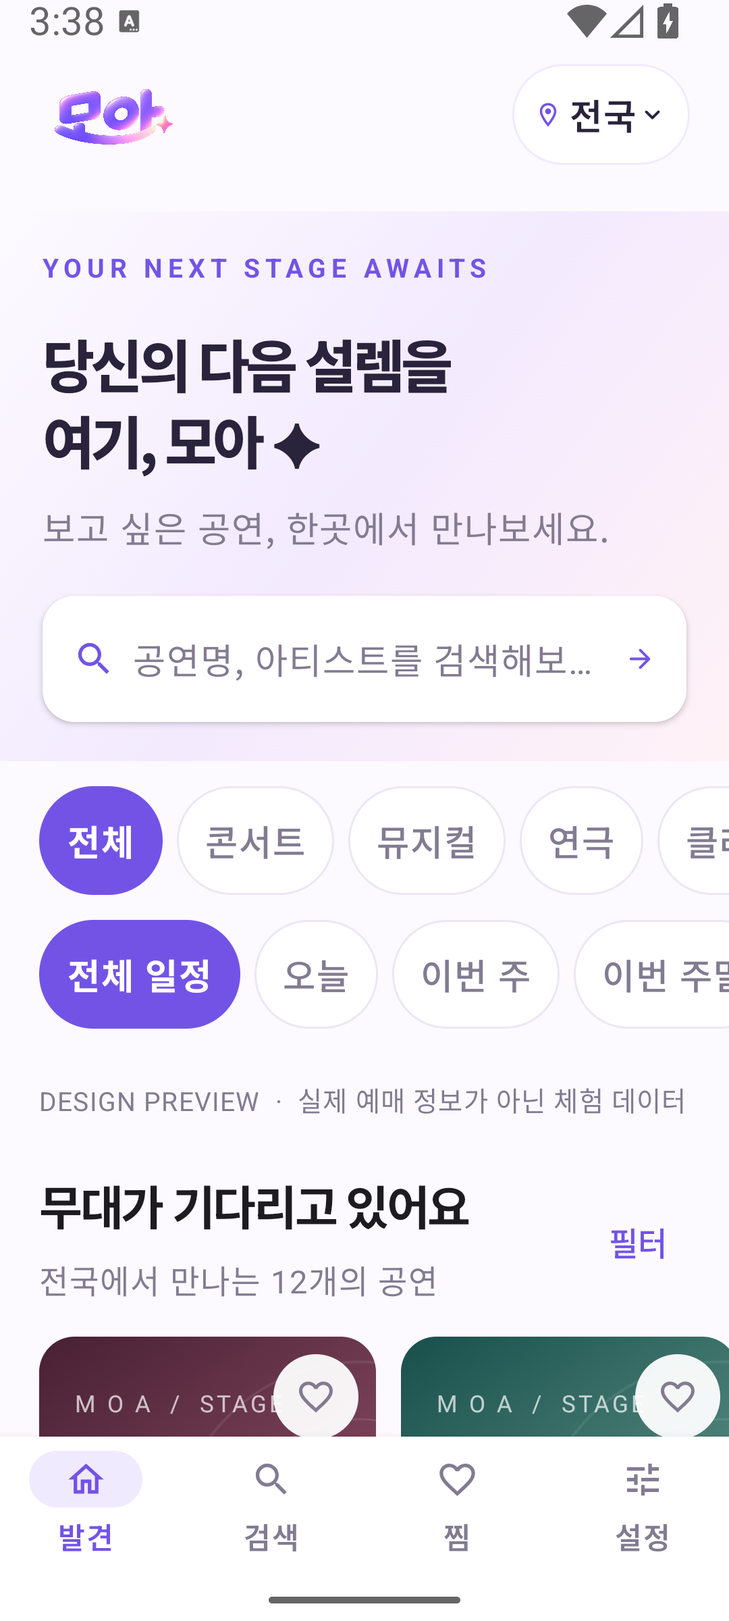
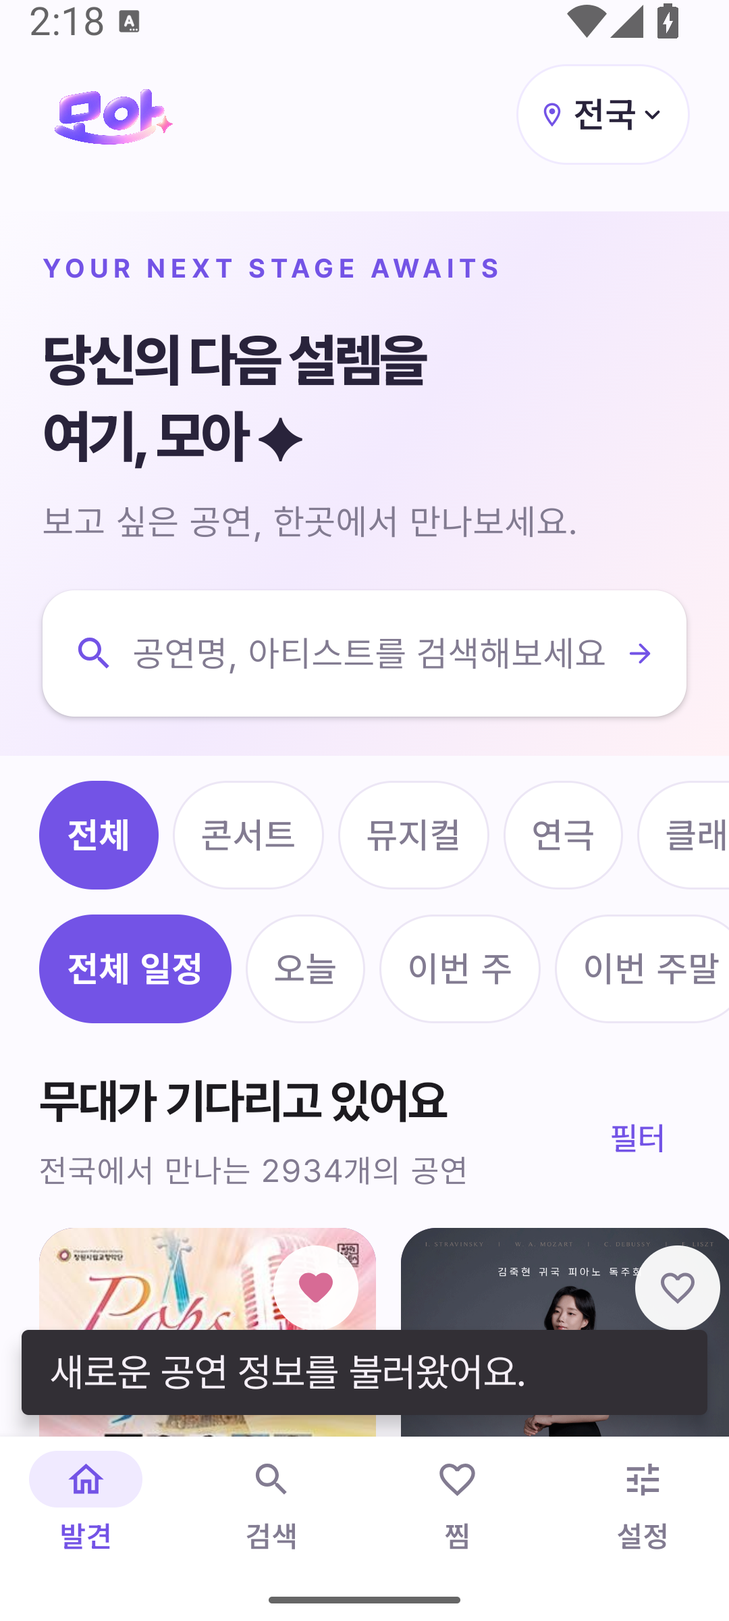
Finalize live Moa app, runtime verification and operating guide

diff --git a/app/src/main/java/kr/moa/app/MainActivity.kt b/app/src/main/java/kr/moa/app/MainActivity.kt
@@ -33,6 +33,7 @@ import androidx.compose.ui.semantics.stateDescription
 import androidx.compose.ui.semantics.selected
 import androidx.compose.ui.unit.*
 import androidx.compose.ui.platform.LocalUriHandler
+import androidx.compose.ui.platform.LocalSoftwareKeyboardController
 import androidx.lifecycle.compose.collectAsStateWithLifecycle
 import androidx.lifecycle.viewmodel.compose.viewModel
 import androidx.navigation.compose.*
@@ -74,7 +75,7 @@ class MainActivity : ComponentActivity() {
     val snack = remember { SnackbarHostState() }
     LaunchedEffect(message) { message?.let { snack.showSnackbar(it); vm.message.value = null } }
     val open: (Performance) -> Unit = { nav.navigate("detail/${it.id}") }
-    Scaffold(containerColor = Canvas, snackbarHost = { SnackbarHost(snack) }, bottomBar = {
+    Scaffold(modifier = Modifier.imePadding(), containerColor = Canvas, snackbarHost = { SnackbarHost(snack) }, bottomBar = {
         if (!route.startsWith("detail")) Surface(color = Color.White, shadowElevation = 8.dp) {
             NavigationBar(containerColor = Color.White, tonalElevation = 0.dp) {
                 listOf(Triple("home", "발견", Icons.Outlined.Home), Triple("search", "검색", Icons.Outlined.Search), Triple("favorites", "찜", Icons.Outlined.FavoriteBorder), Triple("settings", "설정", Icons.Outlined.Tune)).forEach { (r, label, icon) ->
@@ -88,7 +89,7 @@ class MainActivity : ComponentActivity() {
             composable("search") { SearchScreen(catalog, filters, query, prefs.history, favorites, { vm.query.value = it }, vm::search, vm::clearHistory, { filterOpen = true }, { vm.defaults(it) }, vm::favorite, open) }
             composable("favorites") { FavoritesScreen(favorites, vm::favorite, open) }
             composable("settings") { SettingsScreen(prefs, catalog, filters, busy, { filterOpen = true }, vm::endpoint, vm::refresh) }
-            composable("detail/{id}") { back -> val id = back.arguments?.getString("id"); val p = catalog?.performances?.find { it.id == id } ?: favorites.find { it.id == id }; if (p != null) DetailScreen(p, favorites.any { it.id == p.id }, catalog?.sample == true, { nav.popBackStack() }, { vm.favorite(p) }) else EmptyState("공연 정보를 찾지 못했어요", "목록으로 돌아가 다시 선택해주세요.") }
+            composable("detail/{id}") { back -> val id = back.arguments?.getString("id"); val p = catalog?.performances?.find { it.id == id } ?: favorites.find { it.id == id }; if (p != null) DetailScreen(p, favorites.any { it.id == p.id }, catalog?.sample == true || p.id.startsWith("DEMO"), { nav.popBackStack() }, { vm.favorite(p) }) else EmptyState("공연 정보를 찾지 못했어요", "목록으로 돌아가 다시 선택해주세요.") }
         }
     }
     if (filterOpen) FilterSheet(filters, { filterOpen = false }) { vm.defaults(it); filterOpen = false }
@@ -146,7 +147,7 @@ class MainActivity : ComponentActivity() {
     Column(Modifier.width(190.dp).clickable(onClick = open)) {
         Box(Modifier.fillMaxWidth().aspectRatio(0.72f).clip(RoundedCornerShape(20.dp))) { PosterArt(p, Modifier.fillMaxSize()); Heart(saved, favorite, Modifier.align(Alignment.TopEnd).padding(10.dp)); Surface(color = Pink, shape = RoundedCornerShape(50), modifier = Modifier.align(Alignment.BottomStart).padding(12.dp)) { Text(p.genre, color = Ink, fontSize = 10.sp, fontWeight = FontWeight.Bold, modifier = Modifier.padding(horizontal = 10.dp, vertical = 5.dp)) } }
         Text(p.title, fontSize = 15.sp, fontWeight = FontWeight.Bold, maxLines = 2, overflow = TextOverflow.Ellipsis, lineHeight = 22.sp, modifier = Modifier.padding(top = 12.dp).heightIn(min = 44.dp))
-        Text(dateLabel(p), fontSize = 11.sp, color = Muted, modifier = Modifier.padding(top = 6.dp)); Text("${p.venue.ifBlank { "공연장 정보 없음" }} · ${p.region.ifBlank { "지역 정보 없음" }}", fontSize = 11.sp, color = Muted, maxLines = 1, overflow = TextOverflow.Ellipsis, modifier = Modifier.padding(top = 4.dp))
+        Text(dateLabel(p), fontSize = 11.sp, color = Muted, modifier = Modifier.padding(top = 6.dp)); Text("${venueLabel(p.venue)} · ${p.region.ifBlank { "지역 정보 없음" }}", fontSize = 11.sp, color = Muted, maxLines = 1, overflow = TextOverflow.Ellipsis, modifier = Modifier.padding(top = 4.dp))
     }
 }
 @Composable fun Heart(saved: Boolean, onClick: () -> Unit, modifier: Modifier = Modifier) { Surface(shape = RoundedCornerShape(50), color = Color.White.copy(alpha = .94f), modifier = modifier) { IconButton(onClick = onClick, modifier = Modifier.size(48.dp)) { Icon(if (saved) Icons.Rounded.Favorite else Icons.Outlined.FavoriteBorder, if (saved) "찜 해제" else "찜하기", tint = if (saved) Color(0xFFD76B95) else Muted, modifier = Modifier.size(23.dp)) } } }
@@ -185,9 +186,9 @@ class MainActivity : ComponentActivity() {
         Row(Modifier.padding(12.dp), verticalAlignment = Alignment.CenterVertically) {
             PosterArt(p, Modifier.width(82.dp).height(118.dp).clip(RoundedCornerShape(12.dp)))
             Column(Modifier.weight(1f).padding(start = 12.dp)) {
-                Row(verticalAlignment = Alignment.CenterVertically) { Text("${p.genre} · ${p.region}", color = Purple, fontSize = 10.sp, fontWeight = FontWeight.Bold, modifier = Modifier.weight(1f)); IconButton(onClick = favorite, modifier = Modifier.size(48.dp)) { Icon(if (saved) Icons.Rounded.Favorite else Icons.Outlined.FavoriteBorder, if (saved) "찜 해제" else "찜하기", tint = if (saved) Color(0xFFD76B95) else Muted, modifier = Modifier.size(21.dp)) } }
+                Row(verticalAlignment = Alignment.CenterVertically) { Text("${if (p.id.startsWith("DEMO")) "체험용 · " else ""}${p.genre} · ${p.region}", color = Purple, fontSize = 10.sp, fontWeight = FontWeight.Bold, modifier = Modifier.weight(1f)); IconButton(onClick = favorite, modifier = Modifier.size(48.dp)) { Icon(if (saved) Icons.Rounded.Favorite else Icons.Outlined.FavoriteBorder, if (saved) "찜 해제" else "찜하기", tint = if (saved) Color(0xFFD76B95) else Muted, modifier = Modifier.size(21.dp)) } }
                 Text(p.title, fontSize = 15.sp, fontWeight = FontWeight.Bold, lineHeight = 21.sp, maxLines = 2, overflow = TextOverflow.Ellipsis)
-                Text(dateLabel(p), fontSize = 11.sp, color = Muted, modifier = Modifier.padding(top = 8.dp)); Text(p.venue.ifBlank { "공연장 정보 없음" }, fontSize = 11.sp, color = Muted, maxLines = 1, overflow = TextOverflow.Ellipsis, modifier = Modifier.padding(top = 4.dp))
+                Text(dateLabel(p), fontSize = 11.sp, color = Muted, modifier = Modifier.padding(top = 8.dp)); Text(venueLabel(p.venue), fontSize = 11.sp, color = Muted, maxLines = 1, overflow = TextOverflow.Ellipsis, modifier = Modifier.padding(top = 4.dp))
             }
         }
     }
@@ -196,16 +197,17 @@ class MainActivity : ComponentActivity() {
 @Composable fun EmptyState(title: String, body: String) { Column(Modifier.fillMaxWidth().padding(horizontal = 24.dp, vertical = 44.dp), horizontalAlignment = Alignment.CenterHorizontally) { Surface(color = Lavender, shape = RoundedCornerShape(24.dp)) { Icon(Icons.Outlined.TheaterComedy, null, tint = Purple, modifier = Modifier.padding(20.dp).size(32.dp)) }; Text(title, fontSize = 18.sp, fontWeight = FontWeight.Bold, modifier = Modifier.padding(top = 20.dp)); Text(body, fontSize = 13.sp, color = Muted, modifier = Modifier.padding(top = 8.dp), textAlign = androidx.compose.ui.text.style.TextAlign.Center) } }
 
 @Composable fun SearchScreen(catalog: Catalog?, filters: Filters, query: String, history: List<String>, favorites: List<Performance>, setQuery: (String) -> Unit, search: (String) -> Unit, clearHistory: (String?) -> Unit, onFilter: () -> Unit, change: (Filters) -> Unit, favorite: (Performance) -> Unit, open: (Performance) -> Unit) {
+    val keyboard = LocalSoftwareKeyboardController.current
     val list = filterPerformances(catalog?.performances.orEmpty(), query, filters)
     LazyColumn(contentPadding = PaddingValues(bottom = 24.dp), verticalArrangement = Arrangement.spacedBy(16.dp)) {
         item { BrandHeader(filters.region, onFilter) }
-        item { Column(Modifier.padding(horizontal = 22.dp)) { Text("어떤 무대를 찾고 있나요?", fontWeight = FontWeight.Bold, fontSize = 25.sp, letterSpacing = (-.8).sp); Spacer(Modifier.height(16.dp)); Row(verticalAlignment = Alignment.CenterVertically, horizontalArrangement = Arrangement.spacedBy(8.dp)) { OutlinedTextField(value = query, onValueChange = setQuery, singleLine = true, placeholder = { Text("공연명이나 아티스트", fontSize = 13.sp) }, leadingIcon = { Icon(Icons.Outlined.Search, null, tint = Purple) }, trailingIcon = { if (query.isNotEmpty()) IconButton(onClick = { setQuery("") }) { Icon(Icons.Rounded.Close, "검색어 지우기") } }, shape = RoundedCornerShape(50), modifier = Modifier.weight(1f), keyboardOptions = KeyboardOptions(imeAction = ImeAction.Search), keyboardActions = KeyboardActions(onSearch = { search(query) })); FilledTonalIconButton(onClick = onFilter, modifier = Modifier.size(48.dp)) { Icon(Icons.Outlined.Tune, "필터") } } } }
+        item { Column(Modifier.padding(horizontal = 22.dp)) { Text("어떤 무대를 찾고 있나요?", fontWeight = FontWeight.Bold, fontSize = 25.sp, letterSpacing = (-.8).sp); Spacer(Modifier.height(16.dp)); Row(verticalAlignment = Alignment.CenterVertically, horizontalArrangement = Arrangement.spacedBy(8.dp)) { OutlinedTextField(value = query, onValueChange = setQuery, singleLine = true, placeholder = { Text("공연명이나 아티스트", fontSize = 13.sp) }, leadingIcon = { Icon(Icons.Outlined.Search, null, tint = Purple) }, trailingIcon = { if (query.isNotEmpty()) IconButton(onClick = { setQuery("") }) { Icon(Icons.Rounded.Close, "검색어 지우기") } }, shape = RoundedCornerShape(50), modifier = Modifier.weight(1f), keyboardOptions = KeyboardOptions(imeAction = ImeAction.Search), keyboardActions = KeyboardActions(onSearch = { search(query); keyboard?.hide() })); FilledTonalIconButton(onClick = onFilter, modifier = Modifier.size(48.dp)) { Icon(Icons.Outlined.Tune, "필터") } } } }
         item { GenreRow(filters, change) }; item { DateRow(filters, change, onFilter) }
         if (history.isNotEmpty()) item { Column(Modifier.padding(horizontal = 22.dp)) { SectionTitle("최근 검색어", action = "전체 삭제", onAction = { clearHistory(null) }); Spacer(Modifier.height(8.dp)); FlowRow(horizontalArrangement = Arrangement.spacedBy(8.dp)) { history.forEach { word -> InputChip(selected = false, onClick = { search(word) }, label = { Text(word, fontSize = 12.sp) }, trailingIcon = { IconButton(onClick = { clearHistory(word) }, modifier = Modifier.size(24.dp)) { Icon(Icons.Rounded.Close, "검색 기록 삭제", modifier = Modifier.size(14.dp)) } }) } } } }
         item { SampleNotice(catalog?.sample == true) }
         item { Column(Modifier.padding(horizontal = 22.dp)) { SectionTitle("${if (query.isBlank()) "공연 둘러보기" else "검색 결과"}  ${list.size}", action = if (filters.descending) "종료일순 ↕" else "시작일순 ↕", onAction = { change(filters.copy(descending = !filters.descending)) }) } }
         if (list.isEmpty()) item { EmptyState("찾는 공연이 없어요", "검색어나 필터를 바꿔 다시 찾아보세요.") }
-        items(list, key = { it.id }) { p -> PerformanceRow(p, favorites.any { it.id == p.id }, { favorite(p) }, { search(query); open(p) }, Modifier.padding(horizontal = 22.dp)) }
+        items(list, key = { it.id }) { p -> PerformanceRow(p, favorites.any { it.id == p.id }, { favorite(p) }, { keyboard?.hide(); search(query); open(p) }, Modifier.padding(horizontal = 22.dp)) }
     }
 }
 
@@ -227,7 +229,7 @@ class MainActivity : ComponentActivity() {
         LazyColumn(Modifier.weight(1f), contentPadding = PaddingValues(bottom = 28.dp), verticalArrangement = Arrangement.spacedBy(20.dp)) {
             item { Box(Modifier.fillMaxWidth().background(Brush.verticalGradient(listOf(Lavender, Canvas))).padding(horizontal = 76.dp, vertical = 22.dp)) { PosterArt(p, Modifier.fillMaxWidth().aspectRatio(.72f).clip(RoundedCornerShape(22.dp))) } }
             item { Column(Modifier.padding(horizontal = 24.dp)) { Text("${p.genre}  /  ${p.region}  /  ${p.status}", color = Purple, fontSize = 12.sp, fontWeight = FontWeight.Bold); Text(p.title, fontSize = 27.sp, fontWeight = FontWeight.ExtraBold, lineHeight = 36.sp, letterSpacing = (-.8).sp, modifier = Modifier.padding(top = 10.dp)); if (sample) Text("디자인 체험용 가상 공연입니다.", color = Muted, fontSize = 12.sp, modifier = Modifier.padding(top = 12.dp)) } }
-            item { Surface(color = Color.White, shape = RoundedCornerShape(20.dp), border = BorderStroke(1.dp, Lavender), modifier = Modifier.padding(horizontal = 22.dp)) { Column(Modifier.padding(20.dp), verticalArrangement = Arrangement.spacedBy(17.dp)) { InfoRow(Icons.Outlined.CalendarMonth, "공연 기간", dateLabel(p)); InfoRow(Icons.Outlined.LocationOn, "공연장", p.venue); InfoRow(Icons.Outlined.Schedule, "관람 시간", p.runtime); InfoRow(Icons.Outlined.PersonOutline, "관람 연령", p.age); InfoRow(Icons.Outlined.ConfirmationNumber, "티켓 가격", p.ticketPrice) } } }
+            item { Surface(color = Color.White, shape = RoundedCornerShape(20.dp), border = BorderStroke(1.dp, Lavender), modifier = Modifier.padding(horizontal = 22.dp)) { Column(Modifier.padding(20.dp), verticalArrangement = Arrangement.spacedBy(17.dp)) { InfoRow(Icons.Outlined.CalendarMonth, "공연 기간", dateLabel(p)); InfoRow(Icons.Outlined.LocationOn, "공연장", venueLabel(p.venue)); InfoRow(Icons.Outlined.Schedule, "관람 시간", p.runtime); InfoRow(Icons.Outlined.PersonOutline, "관람 연령", p.age); InfoRow(Icons.Outlined.ConfirmationNumber, "티켓 가격", p.ticketPrice) } } }
             item { Column(Modifier.padding(horizontal = 24.dp)) { SectionTitle("함께하는 아티스트"); Spacer(Modifier.height(12.dp)); Text(p.artists.joinToString(" · ").ifBlank { "출연진 정보가 제공되지 않았어요." }, color = Muted, fontSize = 14.sp, lineHeight = 24.sp) } }
             item { Column(Modifier.padding(horizontal = 24.dp)) { SectionTitle("공연 안내"); Spacer(Modifier.height(12.dp)); Text(p.description.ifBlank { "상세 소개는 예매처에서 확인해주세요." }, color = Muted, fontSize = 14.sp, lineHeight = 25.sp); if (p.schedule.isNotBlank()) Text("\n공연 일정\n${p.schedule}", color = Ink, fontSize = 13.sp, lineHeight = 23.sp) } }
             item { Text(if (sample) "MOA DESIGN PREVIEW" else "출처: (재)예술경영지원센터 공연예술통합전산망(www.kopis.or.kr)\n정보는 변경될 수 있으니 예매처에서 최종 확인해주세요.", color = Muted, fontSize = 11.sp, lineHeight = 18.sp, modifier = Modifier.padding(horizontal = 24.dp)) }

diff --git a/app/src/main/java/kr/moa/app/MoaViewModel.kt b/app/src/main/java/kr/moa/app/MoaViewModel.kt
@@ -13,7 +13,10 @@ import kotlinx.coroutines.CancellationException
 class MoaViewModel @Inject constructor(private val repository: MoaRepository) : ViewModel() {
     val catalog = MutableStateFlow<Catalog?>(null)
     val preferences = repository.preferences.stateIn(viewModelScope, SharingStarted.Eagerly, Preferences())
-    val favorites = repository.favorites.stateIn(viewModelScope, SharingStarted.Eagerly, emptyList())
+    val favorites = combine(repository.favorites, catalog) { saved, current ->
+        val latest = current?.performances?.associateBy { it.id }.orEmpty()
+        saved.map { latest[it.id] ?: it }
+    }.stateIn(viewModelScope, SharingStarted.Eagerly, emptyList())
     val filters = MutableStateFlow(Filters())
     val query = MutableStateFlow("")
     val busy = MutableStateFlow(false)

diff --git a/app/src/main/java/kr/moa/app/data/Models.kt b/app/src/main/java/kr/moa/app/data/Models.kt
@@ -28,6 +28,8 @@ fun updatedLabel(value: String): String = runCatching {
     java.time.OffsetDateTime.parse(value).atZoneSameInstant(java.time.ZoneId.systemDefault()).format(java.time.format.DateTimeFormatter.ofPattern("yyyy.MM.dd HH:mm"))
 }.getOrElse { value.replace('-', '.') }
 
+fun venueLabel(value: String): String = value.ifBlank { "공연장 정보 없음" }.replace(Regex("""^(.+?)\s*\(\1\)$"""), "$1")
+
 val genres = listOf("콘서트", "뮤지컬", "연극", "클래식", "국악", "무용", "서커스/마술", "복합", "축제")
 val regions = listOf("전국", "서울", "부산", "대구", "인천", "전남광주", "대전", "울산", "세종", "경기", "강원", "충북", "충남", "전북", "경북", "경남", "제주")
 

diff --git a/app/src/androidTest/java/kr/moa/app/MoaFlowTest.kt b/app/src/androidTest/java/kr/moa/app/MoaFlowTest.kt
@@ -35,6 +35,8 @@ class MoaFlowTest {
     @Test fun unmatchedSearchShowsEmptyState() {
         compose.onNodeWithText("검색", useUnmergedTree = true).performClick()
         compose.onNode(hasSetTextAction()).performTextInput("존재하지않는공연123")
+        compose.onNode(hasSetTextAction()).performImeAction()
+        compose.waitUntil(10000) { compose.onAllNodesWithText("찾는 공연이 없어요").fetchSemanticsNodes().isNotEmpty() }
         compose.onNodeWithText("찾는 공연이 없어요").assertExists()
     }
     @Test fun regionAndMultipleGenresApplyAndSurviveRecreation() {

diff --git a/README.md b/README.md
@@ -2,69 +2,59 @@
 
 보고 싶은 공연, 여기 다 모아. 전국 공연 탐색 Android 앱.
 
-## 실행
+## 설치와 사용
 
-Android Studio에서 이 폴더를 열고 Gradle 동기화 후 `app`을 실행합니다. JDK 17 이상, Android SDK 35, Android 10 이상 기기가 필요합니다.
+`dist/moa-preview.apk`를 Android 10 이상 기기에 설치합니다. 개발용 서명이며 Play 출시용 서명은 아닙니다.
+
+- **실제 국내 공연 2,934건**을 초기 데이터로 포함합니다. 대구 공연 171건.
+- 앱 실행 시 [공연 데이터 서버](https://sung-gyeonghun.github.io/MOA/)에서 자동 갱신합니다. 앱에 API 키를 입력할 필요가 없습니다.
+- 지역·복수 장르·오늘/주/주말/월/직접 날짜 필터, 공연명·출연진 검색, 상세·공식 예매처 이동, 찜을 제공합니다.
+- 마지막 정상 목록과 찜은 Room에, 선호와 검색 기록은 DataStore에 저장됩니다.
+- 오프라인에서도 초기 데이터 또는 마지막 정상 캐시를 볼 수 있습니다.
+- Pretendard Variable, 제공된 모아 로고·아이콘, 라벤더·핑크 테마를 적용했습니다.
+
+**Debug 빌드**는 개발·UI 테스트용 가상 공연을 기본으로 사용합니다. 실제 데이터로 사용하는 설치 파일은 **Preview APK**입니다. 이전 체험용 찜은 체험용으로 표시됩니다.
+
+## 데이터 운영
+
+KOPIS → Python / GitHub Actions → GitHub Pages JSON → Android.
+
+- 저장소 Actions Secret `KOPIS_API_KEY` 등록 완료. 키는 소스·JSON·APK에 포함하지 않습니다.
+- GitHub Pages의 workflow 배포 설정 완료.
+- `17 */3 * * *` UTC 예약 실행과 수동 실행 제공. 예약 시각은 지연될 수 있습니다.
+- 변경일 필터를 실제 API로 확인했습니다. 정상 배포 캐시를 재사용하고 변경된 상세·새 공연을 갱신합니다. 7일마다 전체 상세 동기화합니다.
+- KOPIS 상세 API의 일시적 HTTP 400을 관찰해 재시도와 중간 저장을 보강했습니다.
+- 수집·검증 실패 시 배포하지 않습니다. 앱은 파일 SHA256·버전을 확인한 후 목록과 갱신 정보를 한 트랜잭션으로 저장합니다.
+- 현재 API 지역 표기 `전남광주통합특별시`는 앱에서 `전남광주`로 표시합니다. 원본의 해외 4건은 국내 범위에서 제외했습니다.
+
+[배포 확인](https://github.com/sung-gyeonghun/MOA/actions/runs/38279518647) · [실제 증분 갱신 성공](https://github.com/sung-gyeonghun/MOA/actions/runs/38280553834)
+
+증분 검증 실행은 상세 168건을 갱신하고 2,766건을 재사용했습니다. 실제 예약 이벤트가 실행된 이력은 아직 관찰하지 않았습니다.
+
+## 개발·검증
+
+Kotlin / Compose Material 3 / MVVM / Coroutines + Flow / Hilt / Navigation / Retrofit + OkHttp / Kotlinx Serialization / Room / DataStore / Coil.
+
+Windows 한글 경로에서 Gradle 테스트 클래스 로딩 오류가 발생하면 전용 ASCII 빌드 경로를 사용하는 아래 도우미를 실행합니다.
 
 ```powershell
-./gradlew.bat :app:assembleDebug
-./gradlew.bat :app:assemblePreview
-./gradlew.bat :app:assembleRelease :app:bundleRelease
-./gradlew.bat :app:testDebugUnitTest :app:lintDebug
-./gradlew.bat :app:connectedDebugAndroidTest
+./tools/build-windows.ps1 -VerifyDevice -ReleaseArtifacts
 python -m unittest discover -s tools/tests -v
+python tools/validate_snapshot.py public
 ```
 
-Windows에서 한글 경로로 인해 Gradle 테스트가 `ClassNotFoundException`으로 실패한다면 `tools/build-windows.ps1`을 실행하세요. ASCII 경로의 전용 빌드 폴더에서 검증하고 APK를 `dist`에 복사합니다. 에뮬레이터 자동 테스트까지 포함하려면 `tools/build-windows.ps1 -VerifyDevice`를 실행합니다.
+Android Studio에서도 프로젝트를 열 수 있습니다. JDK 17 이상과 Android SDK 35가 필요합니다.
 
-출시 준비 산출물까지 다시 생성하려면 `tools/build-windows.ps1 -ReleaseArtifacts`를 실행합니다. 자세한 실제 데이터 연결 절차는 [docs/data_connection.md](docs/data_connection.md)에 있습니다.
+검증: Kotlin 테스트 5개, Python 테스트 16개, Android 에뮬레이터 테스트 12개 통과. 실제 공연 상세·찜·프로세스 종료 후 유지·오프라인 목록과 공개 JSON 파일의 해시를 추가 확인했습니다. 실제 Android 기기와 Android 10 기기 시험은 아직 하지 않았습니다.
 
-## 포함 기능
+`docs/verification`에 테스트 XML·배포·실제 데이터·기기 확인 및 파일 SHA256 기록이 있습니다. `docs/screenshots`에 실제 공연 데이터로 캡처한 화면이 있습니다.
 
-- 라벤더·핑크 브랜드 테마, 모아 로고 및 아이콘
-- 발견 / 검색 / 찜 / 설정 / 공연 상세
-- 전국 시·도 선택, 복수 장르 선택, 날짜 기간 겹침 필터, 직접 날짜 선택
-- 공연명·출연진 검색, 검색 기록 삭제, 시작일·종료일 정렬
-- Room 기반 오프라인 목록 캐시와 찜, DataStore 선호 설정
-- 공식 예매처 선택 및 외부 브라우저 연결, 예매 URL 누락 안내
-- HTTPS JSON 연결, 갱신 실패 시 이전 데이터 유지
-- 목록과 갱신 정보의 트랜잭션 저장, 다운로드 중 배포 버전 변경 감지
-- KOPIS Python 수집·정규화·월별 중복 인덱싱, GitHub Pages 예약 배포 워크플로
+## 산출물과 출시 전 단계
 
-첫 실행은 디자인 체험용 **가상 공연 12개**를 제공합니다. 실제 공연·가격·예매 정보가 아니며 예매 버튼을 비활성화합니다. 사용자 API 키를 앱에 저장하지 않습니다.
+- `dist/moa-preview.apk`: 실제 공연 데이터 포함, 최적화된 개발용 설치 APK
+- `dist/moa-debug.apk`: 개발·테스트 APK
+- `dist/moa-release-unsigned.apk`, `dist/moa-release-unsigned.aab`: 미서명 출시 준비 산출물
 
-## 실제 공연 데이터 연결
+일반 공개/Play 출시 전 소유자의 서명키, 실기기 시험, 개인정보 및 콘텐츠 이용 권한 검토가 필요합니다. 앱의 데이터 출처 표시는 [KOPIS OpenAPI 안내](https://kopis.or.kr/por/cs/openapi/openApiInfo.do?menuId=MNU_00077)를 반영했고, [공통코드](https://www.kopis.or.kr/upload/openApi/공연예술통합전산망OpenAPI공통코드.pdf)의 장르 코드를 사용합니다.
 
-1. [KOPIS OpenAPI](https://www.kopis.or.kr/por/cs/openapi/openApiInfo.do?menuId=MNU_00074) 서비스키를 발급하고 JSON 재배포·포스터 사용 조건을 확인합니다.
-2. GitHub 저장소 Secrets에 `KOPIS_API_KEY`를 등록합니다.
-3. GitHub Settings → Pages → Source를 **GitHub Actions**로 설정합니다.
-4. `.github/workflows/data.yml`을 저장소에 올린 뒤 `Collect and publish performances`를 수동 실행합니다.
-5. 앱 설정에서 `https://sung-gyeonghun.github.io/MOA/`를 저장하고 데이터 갱신을 누릅니다. 실제 배포 URL은 Actions 결과로 확인하세요.
-
-예약 수집은 UTC 기준 3시간마다 17분에 실행합니다. GitHub 실행이 지연될 수 있습니다. 현재 수집은 6개월의 예정·진행 공연 전체 동기화입니다. `afterdate` 증분 수집은 실제 API 검증 전까지 활성화하지 않습니다. 한 요청이라도 실패하거나 빈 데이터이면 배포하지 않아 이전 Pages 배포가 유지됩니다.
-
-## 구조
-
-`app/src/main/java/kr/moa/app/data` : 정규화 모델, 필터, Retrofit·Room·DataStore 저장소
-
-`MoaViewModel.kt` : 상태 및 사용자 동작 · `MainActivity.kt` : Compose 화면 / Navigation
-
-`MoaApplication.kt` : Hilt 의존성 주입 · `tools/collect.py` : 서버 없는 데이터 파이프라인
-
-KOPIS 필드 매핑 기준은 [공식 개발 가이드](https://kopis.or.kr/upload/openApi/공연예술통합전산망OpenAPI개발가이드.pdf)입니다.
-
-## 배포 전 남은 검증
-
-- 실제 서비스키로 데이터 커버리지·예매 링크·HTTP 포스터의 HTTPS 대응 확인
-- 데이터 이용 및 재배포 조건 확인, 실제 전국 데이터 크기와 요청량 측정
-- 실제 Android 기기 검증, 배포용 서명키 준비 및 Play 정책 검토
-
-`dist/moa-preview.apk`는 용량을 줄인 설치용 APK이고 `dist/moa-debug.apk`는 디버깅용 APK입니다. 둘 다 개발용 서명입니다. Play 출시용으로 사용하지 마세요. 외부 서비스 설정과 실제 API 검증을 마치기 전에는 운영 배포가 완료된 상태가 아닙니다.
-
-`dist/moa-release-unsigned.apk`와 `dist/moa-release-unsigned.aab`는 출시 준비용 미서명 산출물입니다. 설치·스토어 업로드 전 소유자의 정식 서명키 설정이 필요합니다. 저장소에 서명키를 포함하지 않았습니다.
-
-## 화면 미리보기
-
-`docs/screenshots`에 에뮬레이터에서 캡처한 홈·검색·상세·찜·설정·필터 화면이 있습니다.
-
-HTTPS 모의 서버와 실제 Room/DataStore를 이용해 오류 응답·잘못된 JSON·빈 데이터·버전 변경 시 캐시 유지, 오프라인 재조회, 설정과 찜 재복원, 기존 DB 마이그레이션을 검증합니다. Android 테스트는 에뮬레이터 또는 연결된 개발용 기기가 필요합니다.
+Pretendard는 SIL Open Font License 1.1로 배포되며 라이선스를 APK의 `assets/licenses/pretendard.txt`에 포함했습니다.

diff --git a/docs/requirements_audit.md b/docs/requirements_audit.md
@@ -1,41 +1,35 @@
-# PRD 요구사항 대조 — 2026-10-13
+# PRD 요구사항 대조 — 실제 연결 후 2026-10-13
 
-실제 API 키가 없는 상태에서 검증 가능한 범위와 외부 검증이 필요한 범위를 구분했습니다. 가상 공연의 UI 성공을 실제 전국 데이터 검증으로 간주하지 않습니다.
+가상 데이터 성공을 실제 전국 데이터 검증으로 대신하지 않았습니다. 제공된 키로 실제 KOPIS 응답을 수집·검증했고 Pages 배포와 Android 앱을 연결했습니다.
 
 | 요구사항 | 현재 근거 | 남은 확인 |
 |---|---|---|
-| FR-01 목록 | 홈·검색 캡처, 카드 포스터/제목/날짜/지역/공연장 표시 | 실제 포스터 로드·전국 데이터 정확성 |
-| FR-02 지역 | 대구 선택 UI 테스트, 지역 AND 조건 JUnit | 실제 지역 코드·지역명 샘플 |
-| FR-03 복수 장르 | UI 및 OR 조건 JUnit | 실제 KOPIS 코드 매핑 검증 |
-| FR-04 날짜 | 기간 겹침·직접 날짜 JUnit, 오늘/주/주말/월 칩, 날짜 범위 선택기 | 실제 다개월 공연 누락 여부 |
-| FR-05 검색 | 공연명 UI 테스트, 출연진 JUnit | 실제 출연진 필드 커버리지 |
-| FR-06 상세 | 날짜/장소/가격/시간/연령/출연진/상태 화면, 누락 안내 코드 | 실제 상세 응답 |
-| FR-07 예매처 | 예매 링크 선택·UriHandler 전달·브라우저 실패 안내 UI 테스트 | 실제 예매 URL와 브라우저 이동 |
-| FR-08 찜 | Room 재오픈 및 Activity 재생성 후 찜 유지·삭제 테스트 | 실기기 종료/재실행 |
-| FR-09 정렬 | 시작일·종료일 JUnit | 대량 실데이터 |
-| FR-10 자동 갱신 | 3시간 schedule + 수동 Actions/Pages 워크플로, 수집기 | 키 등록·워크플로 실행·공개 URL 검증 |
-| FR-11 예외 | HTTPS 503/JSON/빈 데이터/버전 변경 시 캐시 유지 테스트, 빈 검색 UI 테스트 | 실제 서비스 장애 응답 |
-| NFR-01 성능 | 합성 5,000건 Room 캐시 로드 610ms (Android 16 에뮬레이터) | 실제 전국 파일 크기·기기 성능 |
-| NFR-02 안정성 | 실패한 갱신은 기존 캐시 보존, 오류 안내; 브라우저 부재 안내 | 실기기 네트워크·파싱 장애 |
-| NFR-03 오프라인 | HTTPS 서버 종료 후 DB 재오픈·마지막 정상 카탈로그 복원 테스트 | 비행기 모드 실기기 검증 |
-| NFR-04 보안 | 키는 수집 환경변수/Actions Secrets만 사용, 키 없는 APK, 오류 로그 키 보호 테스트 | 실제 서비스키를 사용한 실행·출력 검사 |
-| NFR-05 갱신 시각 | 설정 표시, 목록과 메타데이터를 한 트랜잭션으로 저장 | 실제 배포 갱신 시각 |
-| NFR-06 호환성 | minSdk 29, API 36 에뮬레이터 시험 | Android 10 실기기/에뮬레이터 |
-| NFR-07 사용성 | 하단 4탭, 카드 1회 상세, 주요 필터 직접 선택 | 실제 사용자 평가 |
-| NFR-08 접근성 | Compose semantics·선택 상태·찜 상태 설명, 시스템 글꼴 150% 캡처 | 스크린 리더 실사용 |
-| NFR-09 운영 | 수집 건수·실행 시각 로그, 실패 시 배포 단계 미실행 | 실제 Actions 실행 이력 |
-| NFR-10 비용 | 상시 서버 없는 Pages 구조 | 실제 요청량·실행 시간·무료 한도 |
-
-## 완료로 판정하지 않은 출시 기준
-
-KOPIS 이용 신청·실제 목록/상세/장르별 데이터·콘텐츠 이용 조건, Pages 공개 배포, 실제 Android 기기 검증, 출시 서명과 Play 정책 검토는 아직 완료되지 않았습니다. 서비스키 미발급은 사용자에게 확인받은 외부 선행 조건입니다.
+| FR-01 목록 | 실제 국내 2,934건, 실제 포스터·날짜·지역·공연장 화면 | KOPIS 밖 공연의 누락 여부 |
+| FR-02 지역 | 대구 실데이터 171건, UI 필터 및 지역 AND 테스트 | 실기기 사용성 |
+| FR-03 복수 장르 | 실제 장르 코드 9개 및 OR/UI 테스트, 현재 지역 표기 반영 | 없음 |
+| FR-04 날짜 | 기간 겹침·직접 기간·연도 경계 테스트, 다개월 중복 인덱스 | 실기기 날짜 선택 |
+| FR-05 검색 | 공연명 UI/출연진 JUnit, 실제 출연진 필드 수집 | 공급되지 않은 출연진은 검색 불가 |
+| FR-06 상세 | 실제 공연 상세·가격·시간·연령·출연진, 누락 안내 | 공급 정보 한계 |
+| FR-07 예매처 | 실제 공식 예매 URL 수집, 브라우저 핸들러 UI 테스트 | 실기기 브라우저에서 링크 열기 |
+| FR-08 찜 | 실제 공연 저장 후 프로세스 종료/재실행 유지, Room 재오픈 테스트 | 실기기 종료/재실행 |
+| FR-09 정렬 | 시작일/종료일 JUnit, 실제 목록 정렬 | 없음 |
+| FR-10 갱신 | Pages 배포 및 실제 증분 실행 성공, 168건 갱신/2,766건 재사용 | 실제 예약 이벤트 관찰 |
+| FR-11 예외 | HTTPS/JSON/빈 데이터/버전/해시 실패 캐시 유지, 빈 결과 UI 테스트 | 장기 운영 |
+| NFR-01 성능 | 합성 5,000건 캐시 2초 이내, 실제 2,934건 목록 표시 | 실기기 성능 |
+| NFR-02 안정성 | 실제 일시적 API 오류에 재시도/중간 저장, 앱 오류 안내 | 장기 운영 |
+| NFR-03 오프라인 | 네트워크 차단·프로세스 종료 후 실제 목록 조회 | 실기기 비행기 모드 |
+| NFR-04 보안 | Secret 암호화 등록, 소스/공개 데이터/APK/AAB 모든 항목에서 키 없음 | 지속 운영 관리 |
+| NFR-05 갱신 시각 | 실제 배포 시각 표시, 목록·메타데이터 트랜잭션 | 없음 |
+| NFR-06 호환성 | minSdk 29, Android 16 에뮬레이터 시험 | Android 10 및 실제 기기 |
+| NFR-07 사용성 | 하단 4탭, 카드/필터/예매처 직접 접근 | 실제 사용자 평가 |
+| NFR-08 접근성 | 선택/찜 상태 설명, 글꼴 확대 확인, Pretendard 적용 | 스크린 리더 실사용 |
+| NFR-09 운영 | 실제 Actions 성공 이력, 캐시 재사용·실패 로그 | 예약 이벤트와 장기 운영 |
+| NFR-10 비용 | 공개 저장소 기본 러너/정적 호스팅, 상세 증분 갱신 | 실제 장기 요청량/한도 |
 
 ## 산출물
 
-- `dist/moa-preview.apk`: 설치 가능한 R8·리소스 최적화 APK, 개발용 서명
-- `dist/moa-debug.apk`: 디버깅용 APK, 개발용 서명
-- `dist/moa-release-unsigned.apk`, `dist/moa-release-unsigned.aab`: 미서명 출시 준비 산출물
-- `docs/screenshots`: 에뮬레이터 캡처
-- `docs/verification`: 실제 테스트 XML 및 정적 검사 기록
-- `.github/workflows/data.yml`: 준비된 수집·배포 워크플로 (미실행)
-- `tools/build-windows.ps1`: 한글 프로젝트 경로용 전용 빌드, `-VerifyDevice`로 Android 테스트 포함
+실제 데이터 포함 Preview APK, Debug APK, 미서명 Release APK/AAB, 공개 Pages JSON, GitHub 소스와 데이터 파이프라인, 실제 화면 캡처와 검증 기록.
+
+## 일반 공개 및 출시 전 남은 작업
+
+소유자 정식 서명키, 실제 Android 기기/Android 10 시험, 예약 이벤트 관찰, 일반 공개/Play 정책과 콘텐츠 이용 권한 검토. KOPIS 출처 표시 요구를 반영했지만 모든 포스터의 개별 권리까지 확인한 상태는 아닙니다. Play 출시를 완료했다고 주장하지 않습니다.

diff --git a/docs/implementation_status.md b/docs/implementation_status.md
@@ -1,53 +1,30 @@
-# 모아 구현 현황
+# 모아 구현 현황 — 2026-10-13
 
-2026-10-13. 목표는 실제 공연 데이터 연결을 포함한 Android 앱 완성입니다.
+## 실제 연결 완료
 
-## 구현
+- 제공된 KOPIS 키 인증·목록·상세·출연진·가격·공식 예매 URL 확인
+- GitHub Actions Secret 암호화 등록, 공개 소스에 키 없음
+- 국내 2,934건, 대구 171건, 장르 코드 9개(표시 장르 8개), 월 경계 공연 388건 확인
+- 해외 4건 제외, 현재 API의 전남광주 지역 표기 반영
+- Pages 공개 배포와 월별 SHA256 검증 성공
+- 실제 증분 갱신 성공: 상세 168건 갱신 / 2,766건 재사용
+- 예약 3시간 + 수동 실행 + 주간 전체 동기화 구성; 실제 예약 이벤트는 아직 관찰하지 않음
 
-- Kotlin, Compose Material 3, MVVM, Coroutines/Flow, Hilt, Navigation Compose
-- 발견, 검색, 상세, 찜, 설정과 필터 바텀시트
-- 지역·복수 장르·오늘/주/주말/월/직접 기간 필터
-- 공연명·출연진 검색, 검색 기록과 삭제, 시작일·종료일 정렬
-- Room 찜 및 실제 공연 캐시, DataStore 선호 설정·데이터 주소
-- Retrofit/OkHttp JSON 연결, Coil 포스터 및 로드 실패 대체 아트워크
-- 공식 예매처 목록, 외부 브라우저 이동, 누락 필드와 빈 결과 안내
-- Python KOPIS 수집, 월 경계 포함·ID 중복 제거·검증 후 Pages 배포 워크플로
-- 개발용 서명 APK와 용량 최적화 preview 빌드
+## 앱
 
-## 검증
+제공 로고·아이콘, Pretendard, 라벤더·핑크 Compose 화면과 발견/검색/상세/찜/설정, 필터·정렬·공식 예매처 이동 구현. 실제 초기 데이터를 포함하고 Pages 자동 갱신. 오프라인 Room 캐시 및 찜, DataStore 선호·검색 기록. 갱신 실패/빈 데이터/파싱/해시/버전 변경에 기존 캐시 보존. 기존 DB 마이그레이션과 체험용 저장 항목 표시 유지.
 
-- Debug APK 빌드 성공
-- R8·리소스 축소 Preview APK 빌드 성공, 약 5 MB (정확한 크기와 SHA256은 docs/verification/artifacts.json)
-- 최적화 APK 설치 후 홈·검색·상세·찜·설정 화면 실행 확인, AndroidRuntime 오류 없음
-- Kotlin 필터·검색 단위 테스트 4개 통과
-- Python 정규화·예매 URL·월 경계·빈 데이터 보호·파일 교체 롤백·출력 경로 보호·키 로그 보호 테스트 8개 통과
-- Android 16 에뮬레이터 Compose 및 저장소 통합 테스트 11개 통과
-  - 검색 → 상세 → 찜 → Activity 재생성 후 유지 → 삭제
-  - 없는 검색어에 빈 결과 표시
-  - 대구 + 콘서트/뮤지컬 복수 선택 및 Activity 재생성 후 선호 유지
-  - 실제 HTTPS/Retrofit로 월별 데이터를 읽고 ID 중복 제거
-  - 서버 종료 후 Room을 다시 열어 오프라인 캐시와 갱신 시각 복원
-  - HTTP 503·JSON 파싱 실패·빈 목록·버전 변경·잘못된 날짜에 기존 캐시 보존
-  - DataStore 파일과 Room을 다시 열어 설정·검색 기록·찜 유지
-  - 버전 1 DB의 찜을 유지하는 버전 2 마이그레이션
-  - 5,000건 합성 데이터의 캐시 로드 2초 이내 확인 (실제 전국 데이터 성능은 별도 검증 필요)
-  - 예매처 선택 시 제공 URL을 그대로 브라우저 핸들러로 전달
-  - 브라우저 부재 시 오류 안내, 강제 종료 방지
-- Android 정적 검사 오류 0건. 의존성 최신 버전 및 SDK 관련 경고는 남아 있음
-- Preview 정적 검사 오류 0건, 경고 14건 (주로 의존성 업데이트와 SDK 관련)
-- 홈·검색·상세·찜·설정·필터 화면을 에뮬레이터에서 직접 캡처·확인
-- 시스템 글꼴 150%에서 홈·검색·필터 화면 실행 및 배치 확인
-- 필터 선택 상태와 찜 상태의 스크린 리더 설명 제공
-- 미서명 Release APK/AAB 빌드 성공 (소유자 정식 서명키 미설정)
+## 검증과 산출물
 
-## 남은 외부 작업
+- Android 에뮬레이터 테스트 12개 / Kotlin 5개 / Python 16개 통과
+- 실제 공연 상세·찜·프로세스 종료 후 찜 유지·오프라인 목록 확인
+- Preview APK 설치, 공개 JSON 전 파일의 SHA256 확인
+- Debug / Preview / 미서명 Release APK 및 AAB 생성
+- 정적 검사 오류 0개, 최신 의존성/SDK 관련 경고 존재
+- 합성 5,000건 캐시 로드 2초 이내 확인; 실제 데이터로도 목록 표시 확인
 
-사용자가 KOPIS 서비스키를 아직 발급·등록하지 않았다고 확인했습니다. 앱은 가상 체험 데이터로 동작합니다.
+근거: `docs/verification`, `docs/screenshots`, [부트스트랩 배포](https://github.com/sung-gyeonghun/MOA/actions/runs/38279518647), [증분 갱신](https://github.com/sung-gyeonghun/MOA/actions/runs/38280553834).
 
-1. KOPIS 키 발급 및 데이터·포스터 재배포 조건 확인
-2. GitHub Actions Secrets에 KOPIS_API_KEY 등록, Pages Source 설정
-3. 코드 업로드 후 실제 수집과 공개 JSON 검증
-4. 실제 데이터 커버리지·요청량·파일 크기·예매 링크 확인
-5. 실제 기기 검증, 출시 서명키와 Play 배포 준비
+## 아직 완료되지 않은 출시 검증
 
-실제 API 요청, 공개 Pages 배포, 실기기 시험 및 Play 출시를 완료했다고 주장하지 않습니다. 실제 데이터로 확인할 때까지 증분 수집은 사용하지 않고 전체 동기화합니다.
+실제 Android 기기 및 Android 10 기기 시험, 실제 예약 이벤트 관찰, 소유자 정식 서명키, 일반 공개/Play 정책 및 콘텐츠 이용 권한 검토. Play 출시를 완료한 상태는 아닙니다.

diff --git a/docs/data_connection.md b/docs/data_connection.md
@@ -1,10 +1,10 @@
-# 실제 공연 데이터 연결
+# 실제 데이터 연결 완료 — 2026-10-13
 
-현재 앱은 가상 공연으로 디자인과 동작을 체험할 수 있습니다. 실제 데이터 연결 전 아래 외부 설정이 필요합니다.
+서비스키는 GitHub Actions Secret에 등록했고, Pages 배포 및 실제 증분 갱신을 확인했습니다. Preview APK는 실제 초기 데이터와 자동 갱신을 제공합니다. 아래는 재설정 시 참고하는 절차입니다.
 
 ## 1. KOPIS 서비스키
 
-[KOPIS OpenAPI 안내](https://www.kopis.or.kr/por/cs/openapi/openApiInfo.do?menuId=MNU_00074)에서 서비스키를 신청합니다. 신청서 활용 목적에 사용할 수 있는 초안:
+[KOPIS OpenAPI 안내](https://www.kopis.or.kr/por/cs/openapi/openApiInfo.do?menuId=MNU_00077)에서 서비스키를 신청합니다. 신청서 활용 목적에 사용할 수 있는 초안:
 
 > 모아는 전국 공연을 지역·장르·날짜 및 공연명·출연진으로 탐색하는 Android 앱입니다. KOPIS의 공연 목록·상세 정보를 이용해 공연 정보와 출처를 표시하고, 제공된 공식 예매처 URL로 연결합니다. API 키는 앱에 포함하지 않고 서버 측 예약 작업의 비밀 값으로 관리할 계획입니다. 개인 사용으로 시작하며 추후 공개 여부를 검토합니다.
 
@@ -39,4 +39,4 @@
 - 파일 크기, API 요청량과 수집 시간, 무료 운영 한도
 - 비행기 모드에서 마지막 목록 조회 및 찜 유지
 
-현재 `afterdate` 증분 수집은 실제 API 검증 전이라 활성화하지 않았습니다. 최초 연결은 6개월 전체 동기화이며, 수집 범위·호출량을 확인한 뒤 증분 수집과 정기 전체 동기화를 확정합니다.
+`afterdate`는 실제 응답으로 확인했고 증분 수집과 7일마다 전체 동기화를 적용했습니다.
